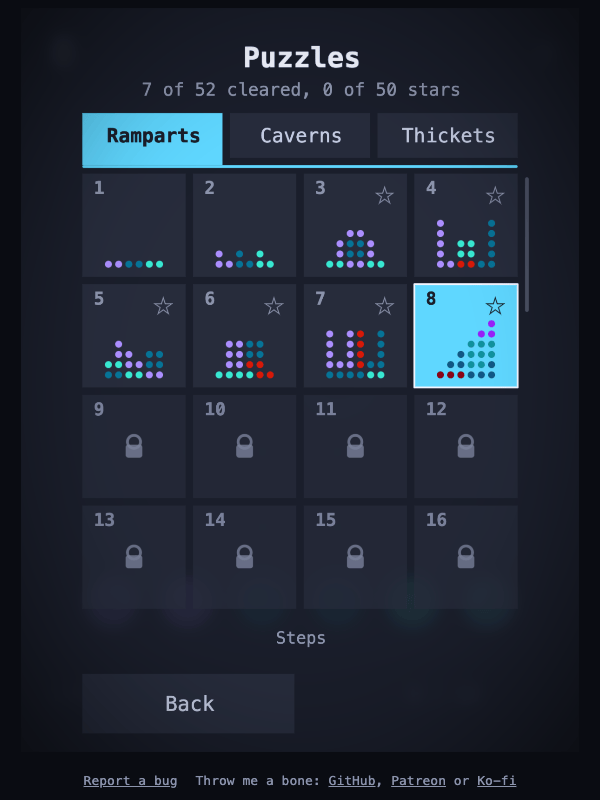
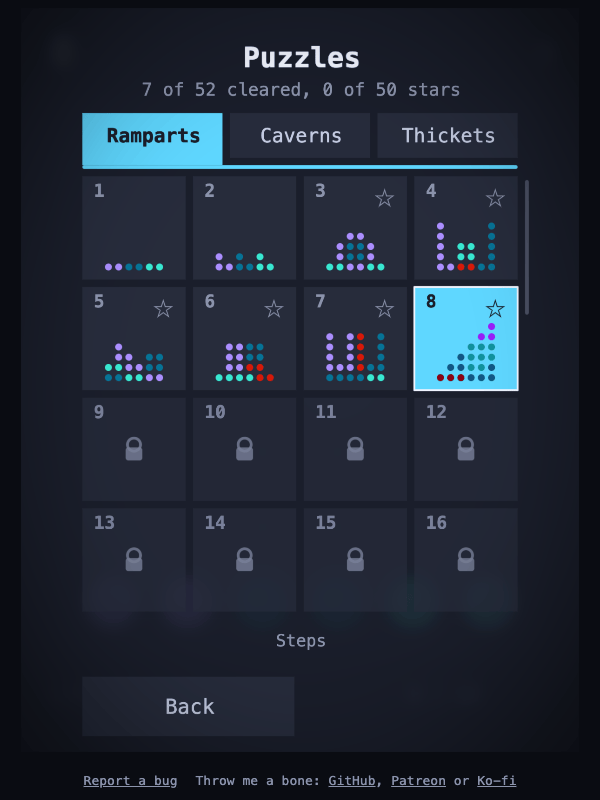
One gap for the tabs, and a heavier rule
The rule was three deep against an eight gap above it and a six below, so
it read as a hairline the boards were crowding. Four deep, and the one gap
does all three jobs: between two tabs, above the rule and below it.

diff --git a/src/view.js b/src/view.js
@@ -77,12 +77,15 @@ const RANK_MAX = 5
 const STAR_UP = -Math.PI / 2
 const STAR_HOLLOW = 0.7
 
-// The ladder tabs at the head of the picker: how tall one is, the air between them, and the rule
-// they stand on. The rule is what separates choosing a ladder from choosing a board out of it, and
-// the gap above it is the same gap that is between two tabs, so the row reads as one thing.
+// The ladder tabs at the head of the picker: how tall one is, the air around them, and the rule
+// they stand on. The rule is what separates choosing a ladder from choosing a board out of it.
+//
+// One gap does all the spacing: between two tabs, above the rule, and below it. So the tabs read as
+// one row rather than as three boxes, and the rule reads as belonging to them rather than to the
+// boards under it.
 const TAB_H = 48
 const TAB_GAP = 8
-const TAB_LINE = 3
+const TAB_LINE = 4
 // How far up the chosen tab's outline is painted back in where it meets the rule. Square and the
 // full width of the tab, so the outline's rounded bottom corners go with it: there is nothing to
 // stick out into, the rule being the same colour and running the whole way across.
@@ -812,7 +815,7 @@ export class GameView {
       return metrics.top + lines * (metrics.height + BUTTON_GAP)
     }
     if (row.layout === "tabs") {
-      return TAB_H + TAB_GAP + TAB_LINE + ROW_GAP
+      return TAB_H + TAB_GAP + TAB_LINE + TAB_GAP
     }
     if (row.kind === "options") {
       return (row.options.some((option) => option.preview) ? PREVIEW_H : OPTION_H) + ROW_GAP
@@ -1003,7 +1006,7 @@ export class GameView {
     const count = row.options.length
     const inner = width - PANEL_PAD * 2
     const tabW = (inner - TAB_GAP * (count - 1)) / count
-    const lineY = rowY + rowHeight - ROW_GAP - TAB_LINE
+    const lineY = rowY + rowHeight - TAB_GAP - TAB_LINE
     renderer.panel(x + PANEL_PAD, lineY, inner, TAB_LINE, {
       fill: theme.accent,
       radius: TAB_LINE / 2,
